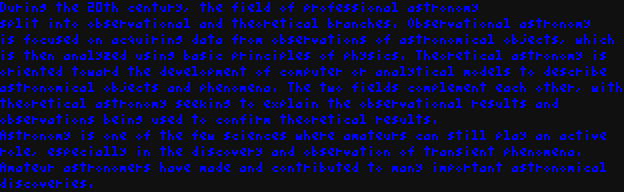
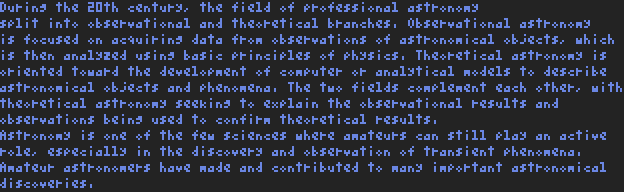
change colors and add pixefon

diff --git a/examples/samples/main.go b/examples/samples/main.go
@@ -27,7 +27,8 @@ func makeSample(s Sample, outDir string) error {
 	}
 
 	f.Scale(s.Scale)
-	f.Color(color.RGBA{0, 0, 0xFF, 0xFF})
+
+	f.Color(color.RGBA{0x6A, 0x86, 0xE3, 0xFF})
 
 	bounds := f.GetTextBounds(s.Text)
 	if bounds.Empty() {
@@ -35,7 +36,7 @@ func makeSample(s Sample, outDir string) error {
 	}
 	m := image.NewRGBA(bounds)
 
-	imutil.ImageSolidFill(m, color.RGBA{0x10, 0x10, 0x10, 0xFF})
+	imutil.ImageSolidFill(m, color.RGBA{0x23, 0x23, 0x23, 0xFF})
 
 	f.DrawText(m, image.ZP, s.Text)
 

diff --git a/README.md b/README.md
@@ -39,6 +39,11 @@ Font files are available in the directory [fonts](fonts). Fonts is saved in JSON
 
 ![tom-thumb-multiline](images/tom-thumb-multiline.png)
 
+####[Pixefon]
+![pixefon-ascii](images/pixefon-4x5-ascii.png)
+
+![pixefon-multiline](images/pixefon-4x5-multiline.png)
+
 ---
 
 ## Examples
